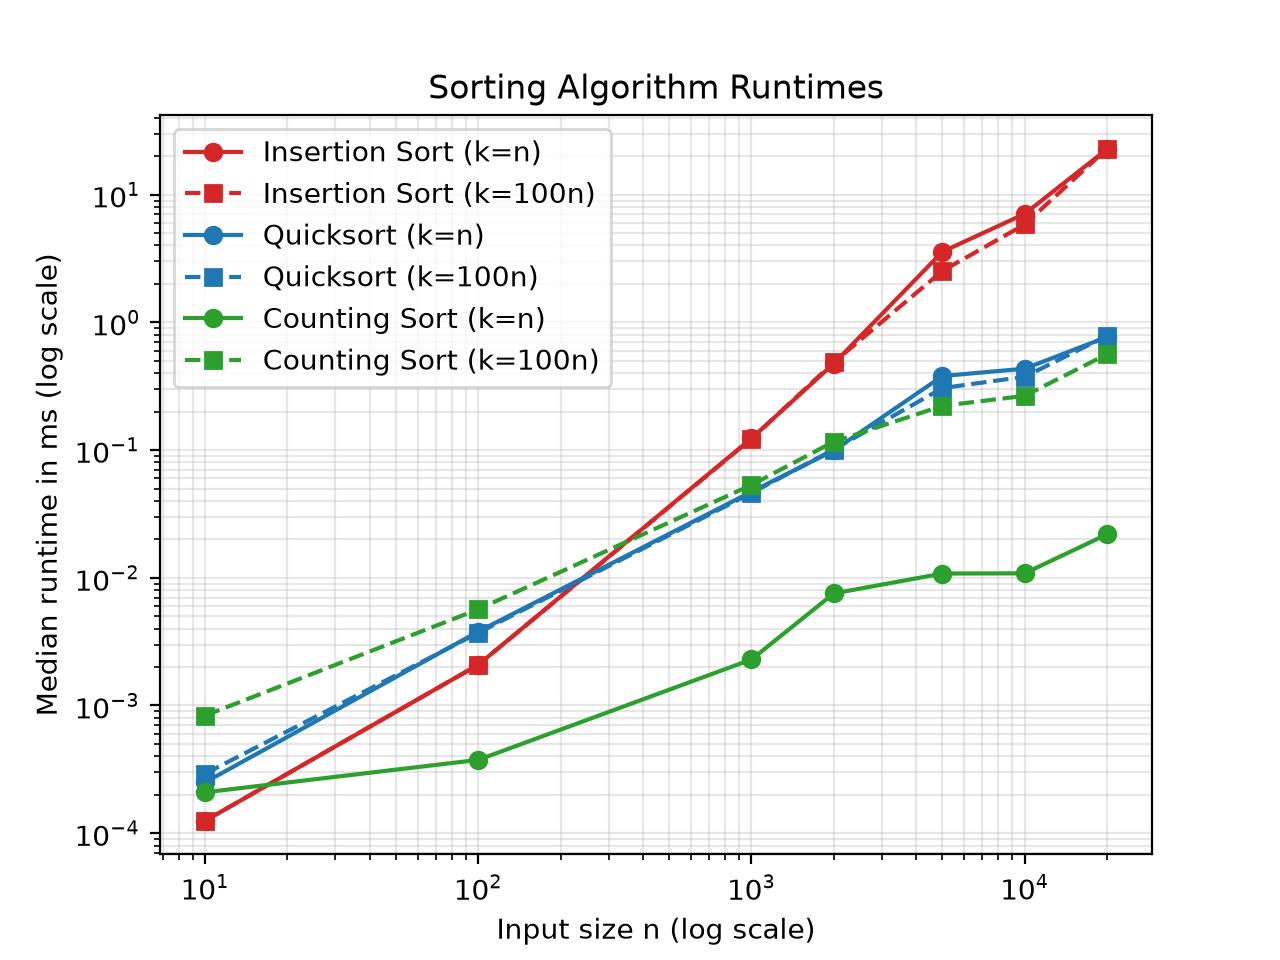
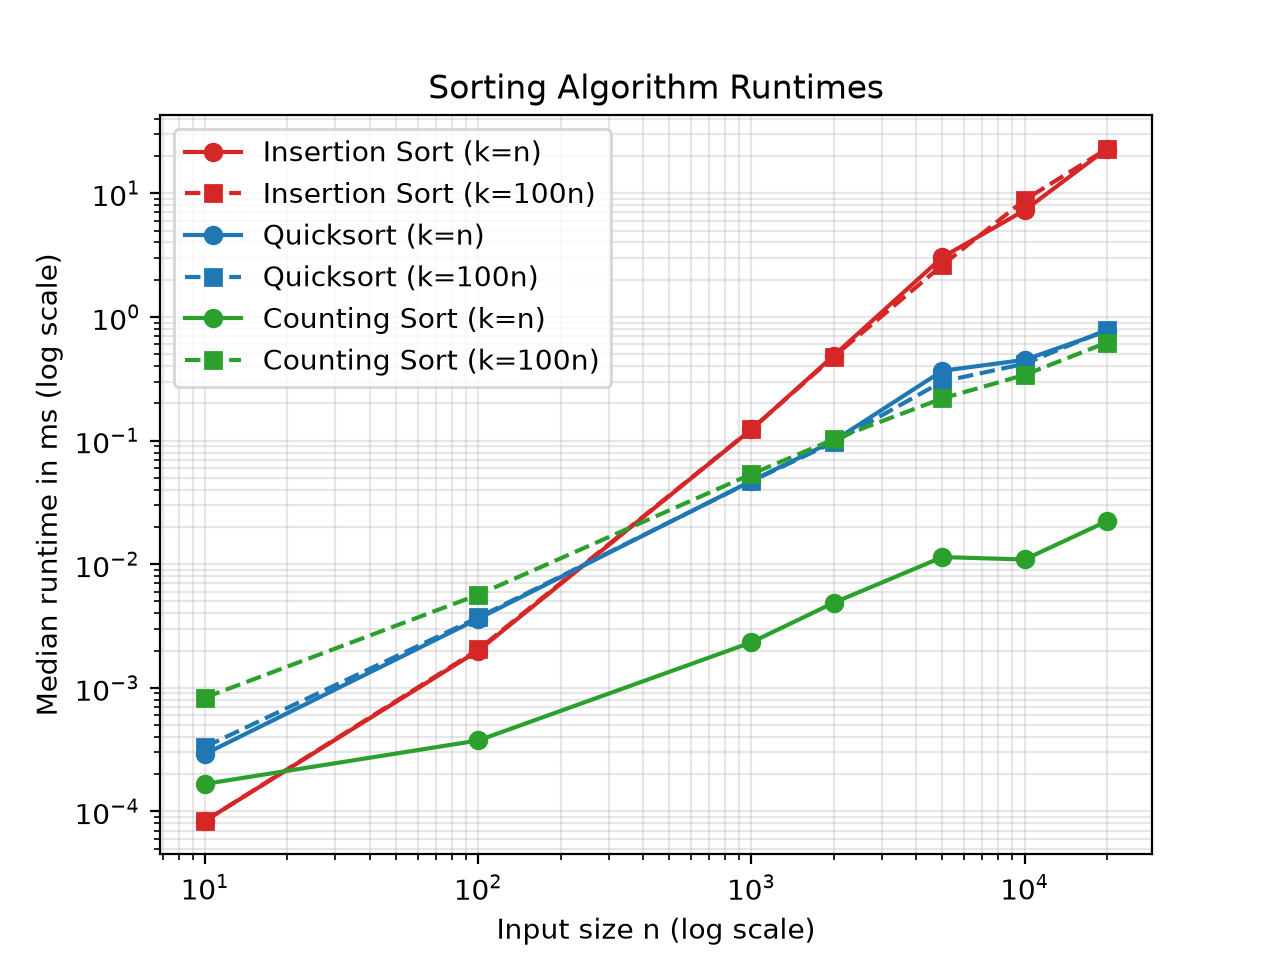
updated

diff --git a/algorithms.cc b/algorithms.cc
@@ -2,6 +2,11 @@
 #include <random>
 #include <cassert>
 #include <fstream>
+#include <algorithm>
+#include <chrono>
+#include <utility>
+#include <vector>
+
 
 using namespace std;
 
@@ -91,7 +96,7 @@ void PrintVector(const vector<int>& A) {
     cout << endl;
 }
 
-void Test_InsertionSort(vector<int> A) { //Passing copy
+void Test_Me_InsertionSort(vector<int> A) { //Passing copy
     vector<int> expected = A;
     sort(expected.begin(), expected.end()); // llibrary sort, for check
 
@@ -101,7 +106,7 @@ void Test_InsertionSort(vector<int> A) { //Passing copy
     assert(A == expected);
 }
 
-void Test_QuickSort(vector<int> A) { //Passing copy
+void Test_Me_QuickSort(vector<int> A) { //Passing copy
     vector<int> expected = A;
     sort(expected.begin(), expected.end());
 
@@ -111,7 +116,7 @@ void Test_QuickSort(vector<int> A) { //Passing copy
     assert(A == expected);
 }
 
-void Test_CountSort(vector<int> A) { //Passing Copy
+void Test_Me_CountingSort(vector<int> A) { //Passing Copy
     vector<int> expected = A;
     sort(expected.begin(), expected.end());
 
@@ -213,9 +218,9 @@ void RunExperiment(int n, int k, ofstream& out) {
 int main() {
    //Testing Samples
     vector<int> sample = {5, 2,9, 1, 5, 6, 0, 2};
-    Test_InsertionSort(sample); //Call passing test
-    Test_QuickSort(sample); //Call
-    Test_CountSort(sample); //Call
+    Test_Me_InsertionSort(sample); //Call passing test
+    Test_Me_QuickSort(sample); //Call
+    Test_Me_CountingSort(sample); //Call
     Test_CountSort_Stability(); //Call
     cout<<"All test passed" << endl;
 

diff --git a/README.md b/README.md
@@ -14,6 +14,7 @@ Building: g++ -O2 -Wall algorithms.cc
 Run: ./a.out
 See plot: python3 plot.py
 
-Make sure matplotlib is installed and ./a.out makes you results.csv file.
+Make sure panda and matplotlib is install:
+python3 -m pip install pandas matplotlib
 
 My main function runs the experiment tests and those will show with a.out so make sure to look for those.
